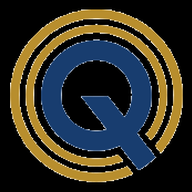
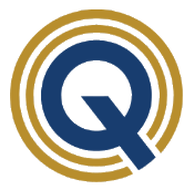
d

diff --git a/_build_icons.py b/_build_icons.py
@@ -15,12 +15,12 @@ HERE = os.path.dirname(os.path.abspath(__file__))
 OUT = os.path.join(HERE, 'assets')
 SRC = 'C:/PreBilt/Prebilt new demo/s60.png'
 
-BLACK = (0, 0, 0, 255)
-SAFETY_RATIO = 0.10  # fraction of canvas reserved as safe margin each side
+BG = (255, 255, 255, 255)   # solid white background
+SAFETY_RATIO = 0.10          # fraction reserved as safe margin each side
 
 
 def clean_bg(img):
-    """Replace the gray/white checker bg with solid black; keep logo colours."""
+    """Replace s60's gray+white checker bg with solid white; keep logo colours."""
     img = img.convert('RGBA')
     px = img.load()
     w, h = img.size
@@ -30,7 +30,7 @@ def clean_bg(img):
             # Checker bg: R≈G≈B AND all channels are light (> 200).
             if r > 200 and g > 200 and b > 200 \
                and abs(r - g) < 20 and abs(g - b) < 20 and abs(r - b) < 20:
-                px[x, y] = BLACK
+                px[x, y] = BG
     return img
 
 
@@ -81,7 +81,7 @@ def build_icon(cleaned, ring_bbox, size):
     new_cx = ring_cx * scale
     new_cy = ring_cy * scale
 
-    canvas = Image.new('RGBA', (size, size), BLACK)
+    canvas = Image.new('RGBA', (size, size), BG)
     paste_x = int(round(size / 2 - new_cx))
     paste_y = int(round(size / 2 - new_cy))
     canvas.paste(resized, (paste_x, paste_y), resized)
